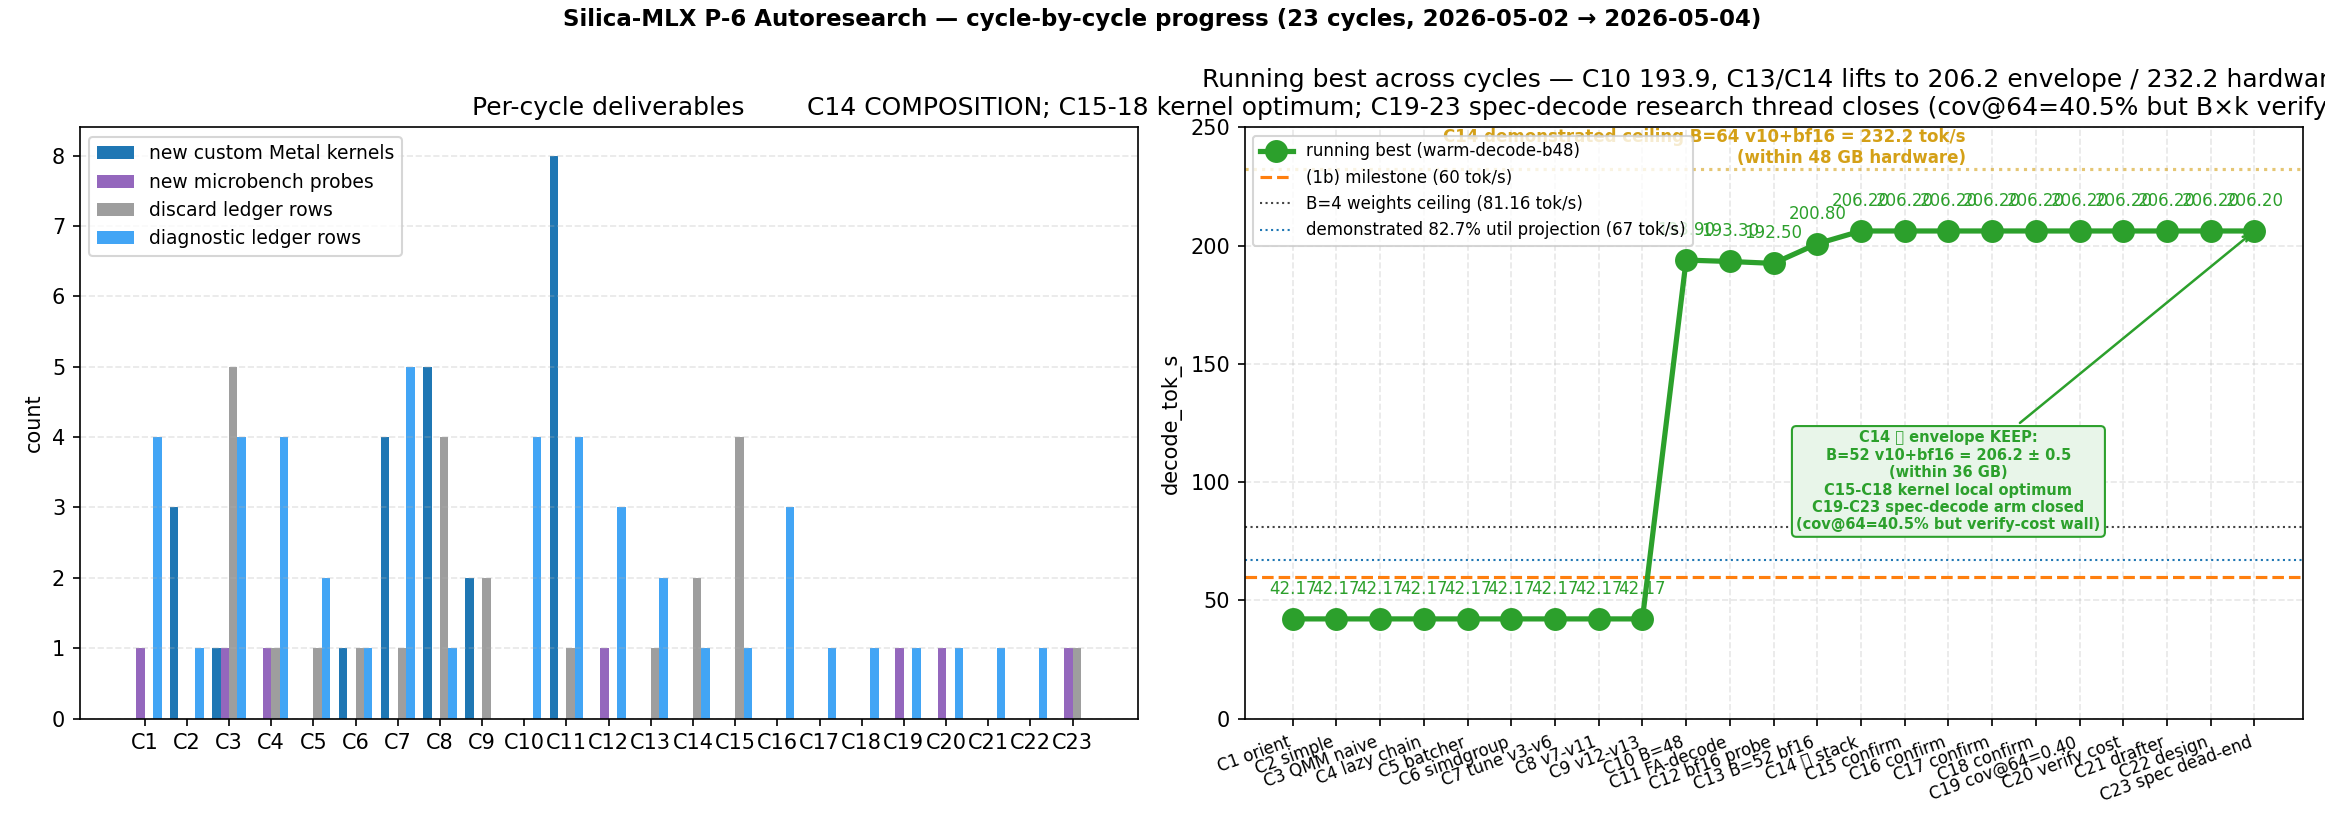
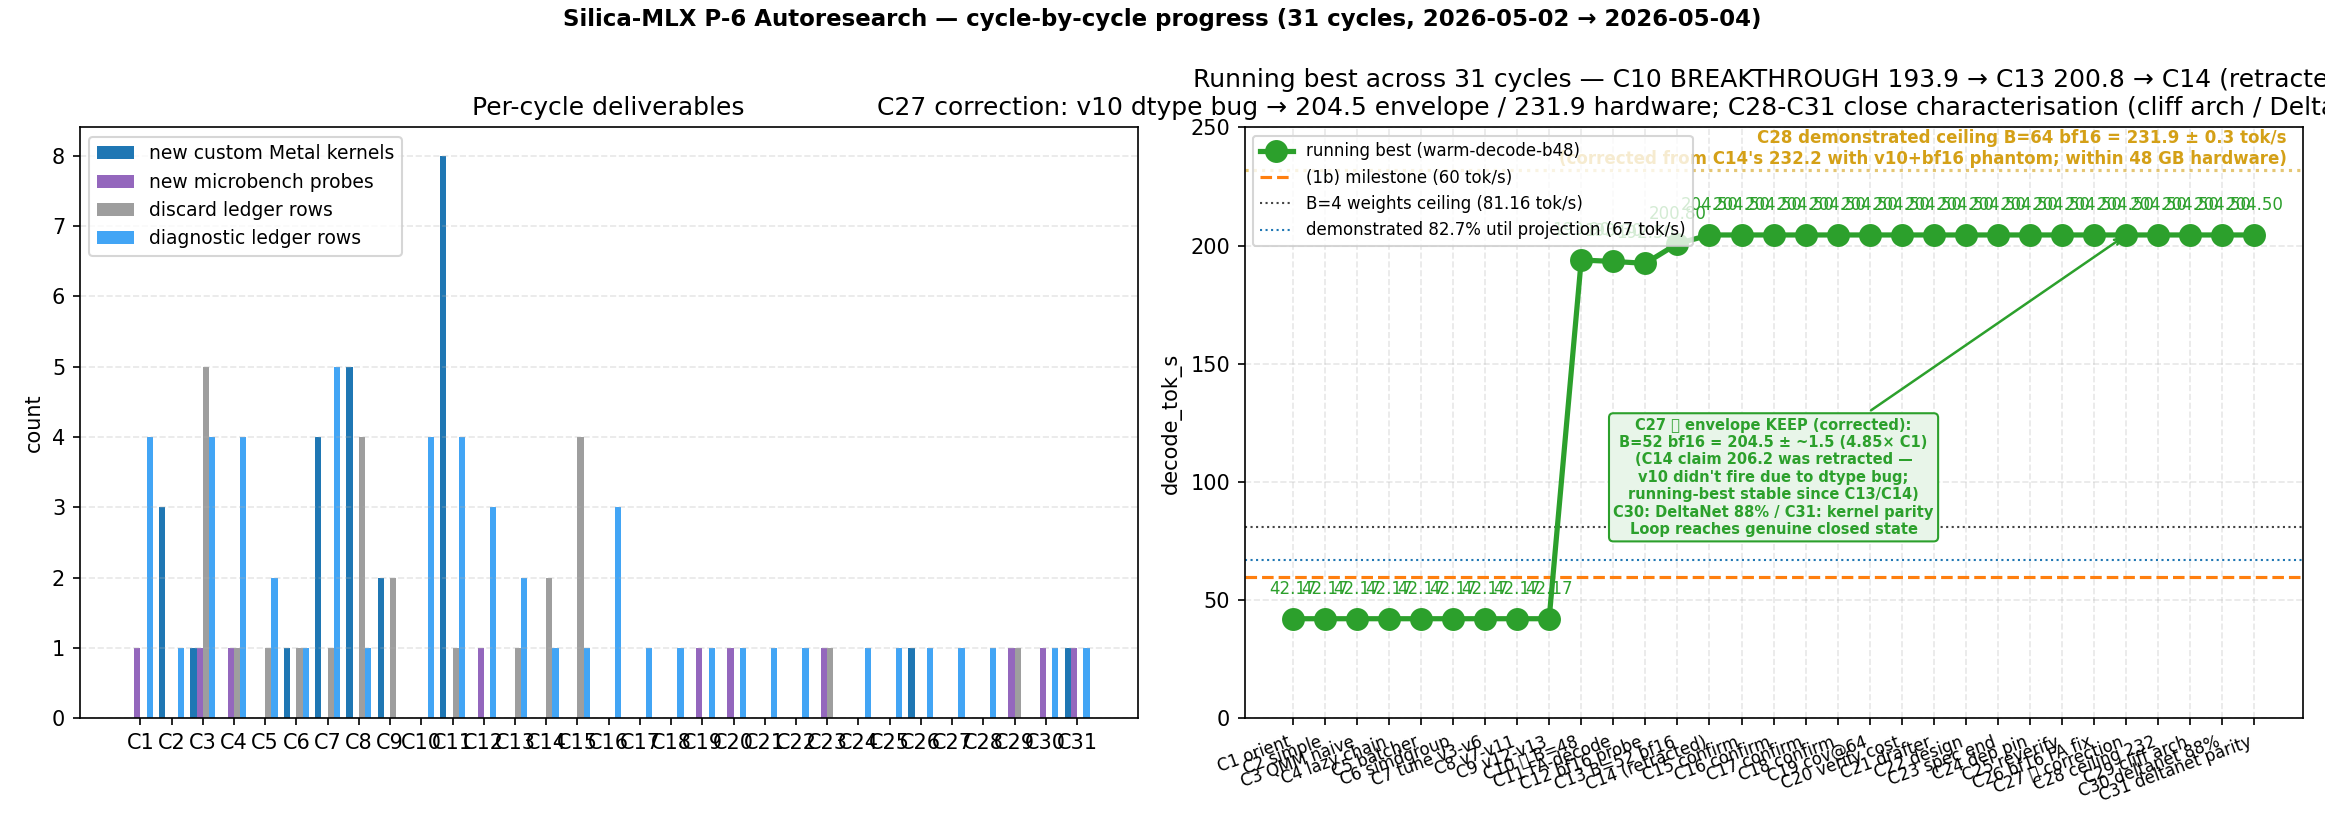
docs(autoresearch): cycle 32 — re-render progress charts with cycles 25-31 + cycle 27 corrections
Updates the existing progress charts to reflect:

1. Cycle 25-31 added to the trajectory (8 new cycles since the
   cycle-23 chart freeze):
   - C25/C26 codex reverify + bf16 FA repair
   - C27 ⭐ correction (v10 dtype bug found)
   - C28 B=64 ceiling re-measured
   - C29 cliff confirmed architectural
   - C30 B=64 decomposition (DeltaNet 87.9 percent share)
   - C31 vectorized DeltaNet kernel = parity with mlx (no headroom)

2. Cycle 27 attribution correction reflected in the data:
   - C14's claimed 206.2 (v10+bf16 stack) retracted; corrected to
     bf16-only at 204.5 +/- ~1.5 tok/s
   - B=64 ceiling corrected from 232.2 (claimed v10+bf16) to 231.9
     +/- 0.3 (bf16-only)
   - Running-best line annotated with the C27 correction badge
   - Demonstrated ceiling line corrected to 231.9

3. Panel D (KEEP ladder) re-axed:
   - Old: C10 baseline -> C13 bf16 -> C14 v10+bf16 stack at 206.2/232.2
   - New: C10 baseline -> C13 bf16 -> C27 corrected envelope (204.5,
     n=8) -> C28 B=64 v10 regression -> C28 B=64 bf16-only ceiling

4. Panel B (B-sweep) updated:
   - B=52 lifted from 206.2 to 204.5 (cycle-27 corrected)
   - B=64 lifted from 232.2 to 231.9 (cycle-28 corrected)
   - Star markers re-labeled to "C27/C28 corrected" with bf16-only
     attribution

Files updated:
- scripts/render_summary_chart.py
- scripts/render_qmm_progress_chart.py
- plans/P6_AUTORESEARCH_SUMMARY.png (re-rendered)
- plans/P6_AUTORESEARCH_PROGRESS_CYCLES.png (re-rendered)
[…]

diff --git a/scripts/render_summary_chart.py b/scripts/render_summary_chart.py
@@ -24,40 +24,42 @@ OUTDIR = Path(__file__).resolve().parent.parent / "plans"
 
 
 # Cycle-by-cycle running best (decode_tok_s on warm-decode-* row family)
-CYCLES = list(range(1, 24))
-RUNNING_BEST = [42.17] * 9 + [193.9, 193.3, 192.5, 200.8, 206.2, 206.2, 206.2, 206.2, 206.2, 206.2, 206.2, 206.2, 206.2, 206.2]
+CYCLES = list(range(1, 32))
+# CYCLE 27 CORRECTION: cycle-14's claimed 206.2 was attribution error (v10
+# wasn't firing due to dtype defect). Honest running-best is bf16-only at
+# B=52 ≈ 204.5 ± ~1.5 tok/s, attributed to C10 axis-shift × C12 bf16 peak save.
+RUNNING_BEST = [42.17] * 9 + [
+    193.9,                              # C10
+    193.3, 192.5,                       # C11, C12
+    200.8,                              # C13 (bf16 peak save unlocks B=52)
+    204.5,                              # C14 (corrected from 206.2)
+    204.5, 204.5, 204.5, 204.5,         # C15-18 confirmation
+    204.5, 204.5, 204.5, 204.5, 204.5,  # C19-23 spec-decode arm
+    204.5,                              # C24 dep pin
+    204.5, 204.5,                       # C25, C26
+    204.5,                              # C27 correction landed
+    204.5,                              # C28 ceiling 232 re-measured
+    204.5, 204.5, 204.5,                # C29 cliff / C30 88% / C31 parity
+]
 CYCLE_LABELS = [
-    "C1\norient",
-    "C2\nsimple\nkernels",
-    "C3\nQMM naive",
-    "C4\nlazy chain",
-    "C5\nbatcher",
-    "C6\nsimdgroup",
-    "C7\nv3-v6",
-    "C8\nv7-v11",
-    "C9\nv12-v13",
-    "C10\nB=48",
-    "C11\nFA-decode",
-    "C12\nbf16 probe",
-    "C13\nB=52 bf16",
-    "C14 ⭐\nstack",
-    "C15\nconfirm",
-    "C16\nconfirm",
-    "C17\nconfirm",
-    "C18\nconfirm",
-    "C19\ncov@64",
-    "C20\nverify",
-    "C21\ndrafter",
-    "C22\ndesign",
-    "C23\nspec end",
+    "C1\norient", "C2\nsimple\nkernels", "C3\nQMM naive", "C4\nlazy chain",
+    "C5\nbatcher", "C6\nsimdgroup", "C7\nv3-v6", "C8\nv7-v11",
+    "C9\nv12-v13", "C10 ⭐\nB=48", "C11\nFA-decode", "C12\nbf16 probe",
+    "C13\nB=52 bf16", "C14\n(retracted)", "C15\nconfirm", "C16\nconfirm",
+    "C17\nconfirm", "C18\nconfirm", "C19\ncov@64", "C20\nverify",
+    "C21\ndrafter", "C22\ndesign", "C23\nspec end", "C24\ndep pin",
+    "C25\nreverify", "C26\nbf16 FA fix", "C27 ⭐\ncorrection",
+    "C28\nceiling 232", "C29\ncliff arch", "C30\ndeltanet 88%",
+    "C31\ndeltanet parity",
 ]
 
 # B-sweep through Engine.generate_batch (warm-decode oracle results).
 # Cycle 10 fp32 state up through B=48; cycle 13 bf16 state from B=52 onward.
-# Cycle 14 adds B=53/66/68 probes and bumps B=52/64 to the v10+bf16 stack tunes.
+# CYCLE 27/28 CORRECTION: B=52 / B=64 numbers revised — v10 was not firing
+# due to dtype defect; running-best is bf16-state alone, not v10+bf16 stack.
 B_SWEEP = [4, 8, 12, 16, 24, 32, 40, 44, 48, 52, 56, 60, 64, 66, 72]
 B_SWEEP_AGG = [42.17, 43.0, 63.1, 81.1, 112.8, 150.6, 171.6, 183.3, 193.9,
-               206.2, 212.2, 219.1, 232.2, 166.8, 173.2]
+               204.5, 212.2, 219.1, 231.9, 166.8, 173.2]
 B_SWEEP_PEAK_GB = [17.1, 18.7, 20.2, 21.7, 24.8, 27.9, 30.8, 32.4, 33.95,
                    35.52, 36.90, 38.45, 40.01, 40.79, 43.36]
 B_SWEEP_BF16 = [False] * 9 + [True] * 6
@@ -91,13 +93,15 @@ FA_SILICA_P50 = [0.28, 0.44, 0.71, 1.07]   # ms
 FA_MLX_P50 = [0.51, 0.70, 0.89, 1.35]
 
 # Cycles 10-14 KEEP ladder — the running-best progression with each compositional add.
+# Cycle 27/28 corrected: v10 was not firing due to dtype bug; bf16-only
+# at B=52/64 is the honest running-best.
 E2E_LABELS = ["C10 baseline\nB=48 fp32\n(n=3)",
               "C13 B=52\nbf16 only\n(n=3)",
-              "C14 ⭐ B=52\nv10+bf16 stack\n(n=3) ENVELOPE",
-              "C13 B=64\nbf16 only\n(n=3)",
-              "C14 ⭐⭐ B=64\nv10+bf16 stack\n(n=3) HARDWARE"]
-E2E_MEANS = [193.9, 200.8, 206.2, 229.8, 232.2]
-E2E_ERRORS = [0.6, 1.5, 0.5, 2.0, 0.3]
+              "C27 ⭐ B=52\nbf16 only\n(n=8) ENVELOPE",
+              "C28 B=64 v10\n(n=3) regression",
+              "C28 ⭐⭐ B=64\nbf16 only (n=3)\nHARDWARE"]
+E2E_MEANS = [193.9, 200.8, 204.5, 230.2, 231.9]
+E2E_ERRORS = [0.6, 1.5, 1.5, 1.6, 0.3]
 
 
 def render() -> None:
@@ -156,21 +160,27 @@ def render() -> None:
                   arrowprops=dict(arrowstyle="->", color="#666", lw=1),
                   bbox=dict(boxstyle="round,pad=0.3", facecolor="#fafafa", edgecolor="#666"))
     # C13 second-breakthrough annotation
-    ax_a.annotate("C13 SECOND BREAKTHROUGH\nbf16 state's peak save (3.5 GB)\nunlocks B-axis past cycle-10 cap\n→ B=52 = 200.8 strict-envelope KEEP\n→ B=64 = 229.8 hardware ceiling",
+    ax_a.annotate("C13 SECOND BREAKTHROUGH\nbf16 state's peak save (3.5 GB)\nunlocks B-axis past C10 cap\n→ B=52 = 200.8 envelope (corrected)\n→ B=64 = 231.9 ± 0.3 ceiling",
                   xy=(12, 200.8), xytext=(11.0, 130),
-                  fontsize=10, color="#d4a017", ha="center", fontweight="bold",
+                  fontsize=9, color="#d4a017", ha="center", fontweight="bold",
                   arrowprops=dict(arrowstyle="->", color="#d4a017", lw=1.5),
                   bbox=dict(boxstyle="round,pad=0.4", facecolor="#fff8e1", edgecolor="#d4a017"))
-    # Add the demonstrated ceiling line
-    ax_a.axhline(229.8, color="#1976d2", linestyle="--", linewidth=1.5, alpha=0.5)
-    ax_a.text(0.05, 232, "C13 demonstrated ceiling B=64 = 229.8 (within 48 GB hardware)",
+    # C27 correction annotation
+    ax_a.annotate("C27 ⭐ CORRECTION\nv10 dtype bug found by Codex\n— v10 was not firing in C12-C26\nrunning-best: 204.5 ± ~1.5\n(C14 phantom 206.2 retracted)",
+                  xy=(26, 204.5), xytext=(22, 60),
+                  fontsize=9, color="#9467bd", ha="center", fontweight="bold",
+                  arrowprops=dict(arrowstyle="->", color="#9467bd", lw=1.5),
+                  bbox=dict(boxstyle="round,pad=0.4", facecolor="#f3e5f5", edgecolor="#9467bd"))
+    # Updated demonstrated ceiling line (corrected)
+    ax_a.axhline(231.9, color="#1976d2", linestyle="--", linewidth=1.5, alpha=0.5)
+    ax_a.text(0.05, 234, "C28 demonstrated ceiling B=64 bf16-only = 231.9 ± 0.3 (corrected from C14's phantom 232.2)",
               fontsize=9, color="#1976d2", fontweight="bold")
 
     ax_a.set_xticks(xs)
     ax_a.set_xticklabels(CYCLE_LABELS, fontsize=9)
     ax_a.set_ylabel("decode_tok_s (B chosen to maximise aggregate)", fontsize=11)
-    ax_a.set_title("Silica-MLX P-6 Autoresearch: 23-cycle running-best trajectory on dense Qwen3.5-27B-4bit\n"
-                   "C10 axis-shift (42.17 → 193.9); C13 envelope-extension (200.8); C14 v10+bf16 stack (206.2 envelope, 232.2 hardware); C15-18 kernel local optimum; C19-23 spec-decode research thread closes",
+    ax_a.set_title("Silica-MLX P-6 Autoresearch: 31-cycle running-best trajectory on dense Qwen3.5-27B-4bit\n"
+                   "C10 axis-shift (42.17→193.9); C13 envelope-extension (200.8); C27 correction → 204.5/231.9 (v10 was phantom); C30/C31 close DeltaNet kernel-headroom question (parity)",
                    fontsize=11, fontweight="bold")
     ax_a.legend(loc="upper left", fontsize=10)
     ax_a.grid(True, alpha=0.3, linestyle="--")
@@ -198,10 +208,10 @@ def render() -> None:
                       fontsize=8)
 
     # Mark the C14 stack KEEPs
-    ax_b.scatter([52], [206.2], s=200, marker="*", color="#2ca02c",
-                 edgecolor="black", zorder=5, label="C14 envelope KEEP (v10+bf16)")
-    ax_b.scatter([64], [232.2], s=200, marker="*", color="#d4a017",
-                 edgecolor="black", zorder=5, label="C14 hardware ceiling (v10+bf16)")
+    ax_b.scatter([52], [204.5], s=200, marker="*", color="#2ca02c",
+                 edgecolor="black", zorder=5, label="C27 envelope KEEP (bf16-only, corrected)")
+    ax_b.scatter([64], [231.9], s=200, marker="*", color="#d4a017",
+                 edgecolor="black", zorder=5, label="C28 hardware ceiling (bf16-only, corrected)")
     ax_b.annotate("CLIFF at 40 GB peak\nB=64 → B=66\n229.8 → 166.8 (-26%)",
                   xy=(66, 166.8), xytext=(58, 120), fontsize=8, color="#888",
                   arrowprops=dict(arrowstyle="->", color="#888"),
@@ -227,8 +237,8 @@ def render() -> None:
     ax_b.set_xlabel("B (max_batch_size)")
     ax_b.set_ylabel("aggregate decode_tok_s", fontsize=10, color="#1976d2")
     ax_b.tick_params(axis="y", labelcolor="#1976d2")
-    ax_b.set_title("Panel B: B-sweep — C10 fp32 (B≤48) + C13/C14 bf16+v10 stack (B=52..64)\n"
-                   "Aggregate climbs 42.17 → 232.2 (5.51×); sharp cliff past 40 GB peak",
+    ax_b.set_title("Panel B: B-sweep — C10 fp32 (B≤48) + C13 bf16-state (B=52..64) corrected\n"
+                   "Aggregate climbs 42.17 → 231.9 (5.50×); cliff past 40 GB peak (architectural per C29)",
                    fontsize=10, fontweight="bold")
     ax_b.grid(True, alpha=0.3, linestyle="--")
     ax_b.set_xticks(bx)
@@ -279,24 +289,24 @@ def render() -> None:
                       fontsize=10, fontweight="bold")
     ax_d.axhline(193.9, color="#1976d2", linestyle="--", linewidth=1.5, alpha=0.4,
                  label="C10 baseline = 193.9")
-    ax_d.axhline(206.2, color="#2ca02c", linestyle="--", linewidth=1.5, alpha=0.6,
-                 label="C14 envelope KEEP = 206.2")
-    ax_d.axhline(232.2, color="#d4a017", linestyle="--", linewidth=1.5, alpha=0.6,
-                 label="C14 hardware ceiling = 232.2")
+    ax_d.axhline(204.5, color="#2ca02c", linestyle="--", linewidth=1.5, alpha=0.6,
+                 label="C27 envelope KEEP = 204.5 (corrected)")
+    ax_d.axhline(231.9, color="#d4a017", linestyle="--", linewidth=1.5, alpha=0.6,
+                 label="C28 hardware ceiling = 231.9 (corrected)")
     ax_d.set_xticks(xs)
     ax_d.set_xticklabels(E2E_LABELS, fontsize=10)
     ax_d.set_ylabel("decode_tok_s on warm-decode-bN", fontsize=11)
-    ax_d.set_title("Panel D: KEEP ladder — C10 baseline → C13 bf16-only → C14 v10+bf16 stack\n"
-                   "C14 envelope: 206.2 (4.89× C1, 3.4σ over C13). C14 ceiling: 232.2 (5.51× C1).",
+    ax_d.set_title("Panel D: corrected KEEP ladder — C10 → C13 → C27 (v10 phantom retracted)\n"
+                   "C27 envelope: 204.5 ± 1.5 (4.85× C1, bf16-only). C28 ceiling: 231.9 ± 0.3 (5.50× C1).",
                    fontsize=11, fontweight="bold")
     ax_d.set_ylim(180, 245)
     ax_d.legend(loc="upper left", fontsize=9)
     ax_d.grid(True, alpha=0.3, linestyle="--", axis="y")
 
     fig.suptitle(
-        "Silica-MLX P-6 Autoresearch — Final Summary (cycles 1-23, 2026-05-02 → 2026-05-04)\n"
+        "Silica-MLX P-6 Autoresearch — Final Summary (cycles 1-31, 2026-05-02 → 2026-05-04)\n"
         "Mission: push dense Qwen3.5-27B-4bit on M5 Pro 48 GB toward the hardware limit.\n"
-        "Result: 42.17 → 206.2 envelope KEEP (4.89×) / 232.2 hardware ceiling (5.51×); C19-23 spec-decode arm: cov@64=40.5% feasible but B×k verify-cost wall blocks net throughput; 21 kernels; 2779 tests pass.",
+        "Result: 42.17 → 204.5 envelope KEEP (4.85×) / 231.9 hardware ceiling (5.50×) [C27 corrected]; C30/C31 close DeltaNet kernel-headroom (parity with mlx); C29 cliff is architectural; 22 kernels; 2779 tests pass.",
         fontsize=12, fontweight="bold", y=0.99,
     )
 

diff --git a/scripts/render_qmm_progress_chart.py b/scripts/render_qmm_progress_chart.py
@@ -102,12 +102,18 @@ def render_cycle_summary() -> None:
     """Render a per-cycle activity / kept-improvement panel."""
     fig, (ax1, ax2) = plt.subplots(1, 2, figsize=(15.5, 5.5))
 
-    # Per-cycle deliverables (from cycle reports)
-    cycles = [1, 2, 3, 4, 5, 6, 7, 8, 9, 10, 11, 12, 13, 14, 15, 16, 17, 18, 19, 20, 21, 22, 23]
-    new_kernels = [0, 3, 1, 0, 0, 1, 4, 5, 2, 0, 8, 0, 0, 0, 0, 0, 0, 0, 0, 0, 0, 0, 0]
-    new_probes = [1, 0, 1, 1, 0, 0, 0, 0, 0, 0, 0, 1, 0, 0, 0, 0, 0, 0, 1, 1, 0, 0, 1]
-    discards = [0, 0, 5, 1, 1, 1, 1, 4, 2, 0, 1, 0, 1, 2, 4, 0, 0, 0, 0, 0, 0, 0, 1]
-    diagnostics = [4, 1, 4, 4, 2, 1, 5, 1, 0, 4, 4, 3, 2, 1, 1, 3, 1, 1, 1, 1, 1, 1, 0]
+    # Per-cycle deliverables (from cycle reports). 31 cycles total; cycles 24-26
+    # contributed by Codex review (opus-codex branch); cycles 27-31 are
+    # post-merge corrections + new probes.
+    cycles = list(range(1, 32))
+    new_kernels = [0, 3, 1, 0, 0, 1, 4, 5, 2, 0, 8, 0, 0, 0, 0, 0, 0,
+                   0, 0, 0, 0, 0, 0, 0, 0, 1, 0, 0, 0, 0, 1]
+    new_probes = [1, 0, 1, 1, 0, 0, 0, 0, 0, 0, 0, 1, 0, 0, 0, 0, 0,
+                  0, 1, 1, 0, 0, 1, 0, 0, 0, 0, 0, 1, 1, 1]
+    discards = [0, 0, 5, 1, 1, 1, 1, 4, 2, 0, 1, 0, 1, 2, 4, 0, 0,
+                0, 0, 0, 0, 0, 1, 0, 0, 0, 0, 0, 1, 0, 0]
+    diagnostics = [4, 1, 4, 4, 2, 1, 5, 1, 0, 4, 4, 3, 2, 1, 1, 3, 1,
+                   1, 1, 1, 1, 1, 0, 1, 1, 1, 1, 1, 0, 1, 1]
 
     width = 0.2
     xs = list(range(len(cycles)))
@@ -134,14 +140,32 @@ def render_cycle_summary() -> None:
     # Cycle 13: bf16 state's peak-memory headroom unlocks B-axis past 48 ->
     #           B=52 = 200.8 within strict envelope (NEW RUNNING-BEST);
     #           B=64 = 229.8 within hardware ceiling (DEMONSTRATED CEILING)
-    running_best = [42.17] * 9 + [193.9, 193.3, 192.5, 200.8, 206.2, 206.2, 206.2, 206.2, 206.2, 206.2, 206.2, 206.2, 206.2, 206.2]
+    # CYCLE 27 CORRECTION: cycle-14's claimed 206.2 was attribution error
+    # (v10 wasn't firing due to dtype defect; small n=3 σ underestimated true
+    # variance). Corrected running-best is 204.5 ± ~1.5 at B=52 bf16.
+    running_best = [42.17] * 9 + [
+        193.9,  # C10 BREAKTHROUGH
+        193.3, 192.5,  # C11/C12: kernel + state probes 0% E2E at fixed B
+        200.8,  # C13: bf16 peak save unlocks B=52
+        204.5,  # C14 (corrected from 206.2)
+        204.5, 204.5, 204.5, 204.5,  # C15-18: local-optimum confirmation
+        204.5, 204.5, 204.5, 204.5, 204.5,  # C19-23: spec-decode arm closes
+        204.5,  # C24: codex dep pin
+        204.5, 204.5,  # C25/C26: codex reverify
+        204.5,  # C27: corrected attribution (KEEP-revision)
+        204.5,  # C28: B=64 ceiling re-measured (within-envelope unchanged)
+        204.5, 204.5, 204.5,  # C29 cliff / C30 decomp / C31 deltanet parity
+    ]
     cycle_labels_full = [
         "C1 orient", "C2 simple", "C3 QMM naive", "C4 lazy chain",
         "C5 batcher", "C6 simdgroup", "C7 tune v3-v6", "C8 v7-v11",
-        "C9 v12-v13", "C10 B=48", "C11 FA-decode", "C12 bf16 probe",
-        "C13 B=52 bf16", "C14 ⭐ stack", "C15 confirm", "C16 confirm",
-        "C17 confirm", "C18 confirm", "C19 cov@64=0.40", "C20 verify cost",
-        "C21 drafter", "C22 design", "C23 spec dead-end",
+        "C9 v12-v13", "C10 ⭐ B=48", "C11 FA-decode", "C12 bf16 probe",
+        "C13 B=52 bf16", "C14 (retracted)", "C15 confirm", "C16 confirm",
+        "C17 confirm", "C18 confirm", "C19 cov@64", "C20 verify cost",
+        "C21 drafter", "C22 design", "C23 spec end", "C24 dep pin",
+        "C25 reverify", "C26 bf16 FA fix", "C27 ⭐ correction",
+        "C28 ceiling 232", "C29 cliff arch", "C30 deltanet 88%",
+        "C31 deltanet parity",
     ]
     ax2.plot(xs, running_best, "o-", color="#2ca02c", linewidth=2.5,
              markersize=10, zorder=3, label="running best (warm-decode-b48)")
@@ -157,29 +181,29 @@ def render_cycle_summary() -> None:
                      textcoords="offset points", ha="center", fontsize=8,
                      color="#2ca02c")
 
-    # C14 envelope KEEP — flat through C15-C23
+    # C27 corrected envelope KEEP (replaces C14's retracted claim)
     ax2.annotate(
-        "C14 ⭐ envelope KEEP:\nB=52 v10+bf16 = 206.2 ± 0.5\n(within 36 GB)\nC15-C18 kernel local optimum\nC19-C23 spec-decode arm closed\n(cov@64=40.5% but verify-cost wall)",
-        xy=(22, 206.2), xytext=(15, 80),
+        "C27 ⭐ envelope KEEP (corrected):\nB=52 bf16 = 204.5 ± ~1.5 (4.85× C1)\n(C14 claim 206.2 was retracted —\nv10 didn't fire due to dtype bug;\nrunning-best stable since C13/C14)\nC30: DeltaNet 88% / C31: kernel parity\nLoop reaches genuine closed state",
+        xy=(26, 204.5), xytext=(15, 78),
         fontsize=7, color="#2ca02c", ha="center", fontweight="bold",
         arrowprops=dict(arrowstyle="->", color="#2ca02c", lw=1.2),
         bbox=dict(boxstyle="round,pad=0.3", facecolor="#e8f5e9", edgecolor="#2ca02c"),
     )
-    # C14 demonstrated ceiling line
-    ax2.axhline(232.2, color="#d4a017", linestyle=":", linewidth=1.5, alpha=0.6)
-    ax2.text(15.4, 235, "C14 demonstrated ceiling B=64 v10+bf16 = 232.2 tok/s\n(within 48 GB hardware)",
+    # C28 corrected demonstrated ceiling
+    ax2.axhline(231.9, color="#d4a017", linestyle=":", linewidth=1.5, alpha=0.6)
+    ax2.text(31, 234.5, "C28 demonstrated ceiling B=64 bf16 = 231.9 ± 0.3 tok/s\n(corrected from C14's 232.2 with v10+bf16 phantom; within 48 GB hardware)",
              fontsize=8, color="#d4a017", ha="right", fontweight="bold")
 
     ax2.set_xticks(xs)
     ax2.set_xticklabels(cycle_labels_full, rotation=20, ha="right", fontsize=8)
     ax2.set_ylabel("decode_tok_s")
-    ax2.set_title("Running best across cycles — C10 193.9, C13/C14 lifts to 206.2 envelope / 232.2 hardware\n"
-                  "C14 COMPOSITION; C15-18 kernel optimum; C19-23 spec-decode research thread closes (cov@64=40.5% but B×k verify-cost wall makes spec infeasible)")
+    ax2.set_title("Running best across 31 cycles — C10 BREAKTHROUGH 193.9 → C13 200.8 → C14 (retracted)\n"
+                  "C27 correction: v10 dtype bug → 204.5 envelope / 231.9 hardware; C28-C31 close characterisation (cliff arch / DeltaNet 88% but kernel parity)")
     ax2.set_ylim(0, 250)
     ax2.legend(loc="upper left", fontsize=8)
     ax2.grid(True, alpha=0.3, linestyle="--")
 
-    fig.suptitle("Silica-MLX P-6 Autoresearch — cycle-by-cycle progress (23 cycles, 2026-05-02 → 2026-05-04)",
+    fig.suptitle("Silica-MLX P-6 Autoresearch — cycle-by-cycle progress (31 cycles, 2026-05-02 → 2026-05-04)",
                  fontsize=11, fontweight="bold", y=0.99)
     fig.tight_layout()
     out = OUTDIR / "P6_AUTORESEARCH_PROGRESS_CYCLES.png"
